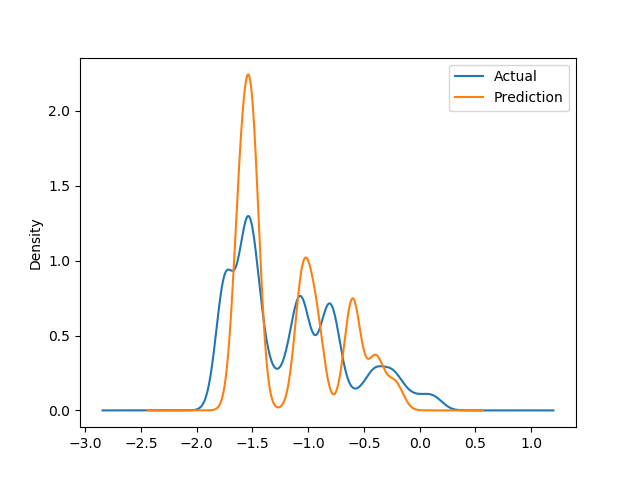
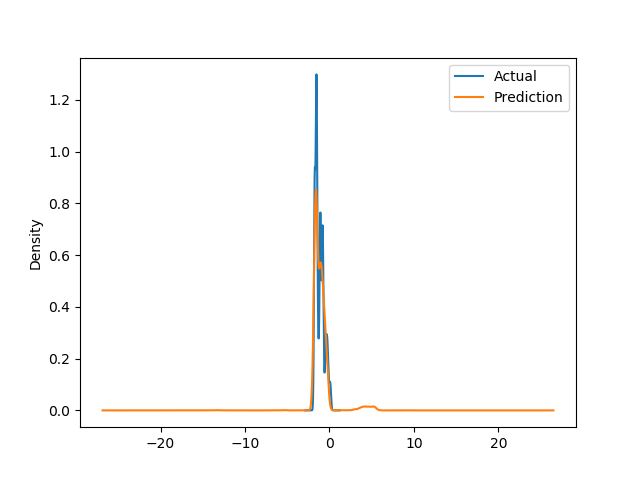
Add ransac

diff --git a/src/LinearReg.py b/src/LinearReg.py
@@ -2,9 +2,10 @@ import numpy as np
 import util
 from sklearn.linear_model import LinearRegression
 from sklearn.model_selection import train_test_split
+from sklearn.linear_model import RANSACRegressor
 import pandas as pd
 
-def main(profile, input_col, label_col, cross, profile_test):
+def main(profile, input_col, label_col, ransac, cross, profile_test):
     """
     :param profile: read profile_id, int type
     :param input_col: list of X name
@@ -35,25 +36,29 @@ def main(profile, input_col, label_col, cross, profile_test):
     high_score=0
     for i in range(n_label):
         print('For label',label_col[i]," : ")
-        reg = LinearRegression().fit(x_train, y_train[:, i])
-        theta[i, 0] = reg.intercept_
-        # print(reg.coef_)
-        theta[i, 1:] = reg.coef_
+        if not ransac:
+            reg = LinearRegression().fit(x_train, y_train[:, i])
+            theta[i, 0] = reg.intercept_
+            theta[i, 1:] = reg.coef_
+        else:
+            reg = RANSACRegressor().fit(x_train, y_train[:, i])
+            theta[i, 0] = reg.estimator_.intercept_
+            theta[i, 1:] = reg.estimator_.coef_
 
-        score=reg.score(x_test, y_test[:, i])
-        if score>high_score:
-            high_score=score
-            label=label_col[i]
+        score = reg.score(x_test, y_test[:, i])
+        if score > high_score:
+            high_score = score
+            label = label_col[i]
         x_new = util.add_intercept(x_test)
         pred = x_new.dot(theta[i, :])
         den = pd.DataFrame({'Actual': y_test[:, i],
                             'Prediction': pred, })
         p = den.plot.kde()
         fig = p.get_figure()
-        fig.savefig("density_plot/" + label + '_density.png')
-        print('Multiple Linear Regression Score for',label,'is',
+        fig.savefig("density_plot/" + label_col[i] + '_density.png')
+        print('Multiple Linear Regression Score for', label_col[i], 'is',
               reg.score(x_test, y_test[:, i]))
-    print('In profile', profile, 'the highest score for',label,'is',high_score)
+    print('In profile', profile, 'the highest score for', label, 'is',high_score)
 
     # if only one input, we can plot it
     if n_input == 1:
@@ -67,11 +72,12 @@ def main(profile, input_col, label_col, cross, profile_test):
 
 
 if __name__ == '__main__':
-    input_col = ["coolant", "i_d", "i_q", "u_d", "u_q"]
+    input_col = ["ambient", "coolant", "motor_speed", "i_d", "i_q", "u_d", "u_q", "i", "u", "Power"]
     label_col = ["pm","stator_yoke", "stator_tooth", "stator_winding"]
     path = 'profile_data/Profile_4.csv'
     main(profile=4,
         input_col=input_col,
         label_col=label_col,
+        ransac=True,
         cross = False,  # cross test: True
         profile_test=6) # if cross test, profile used for test
